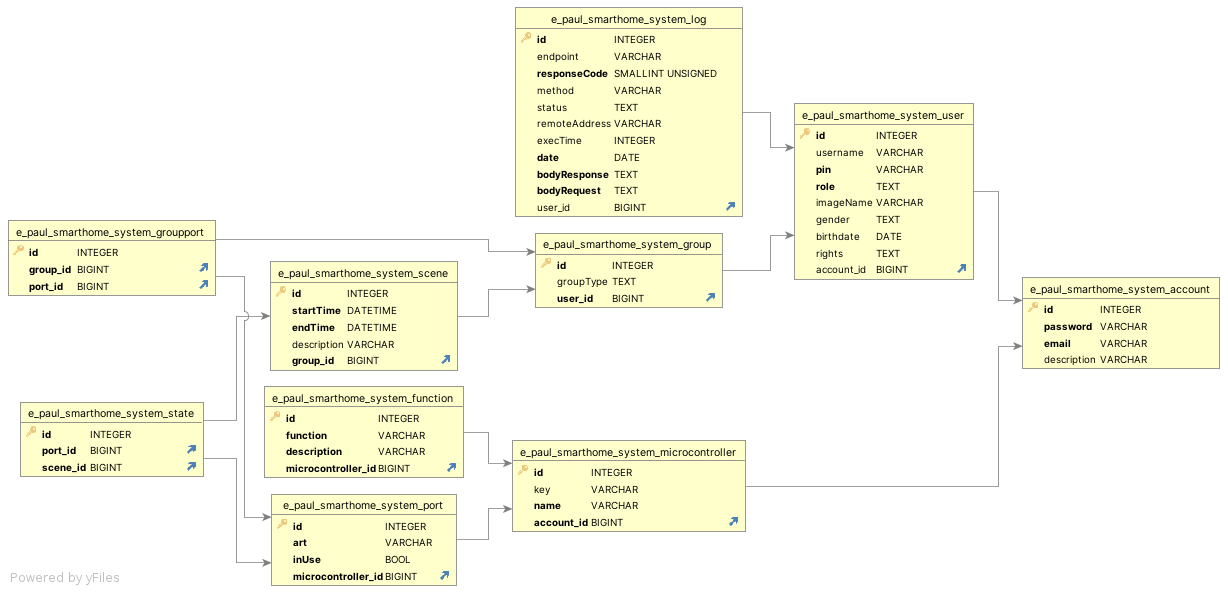
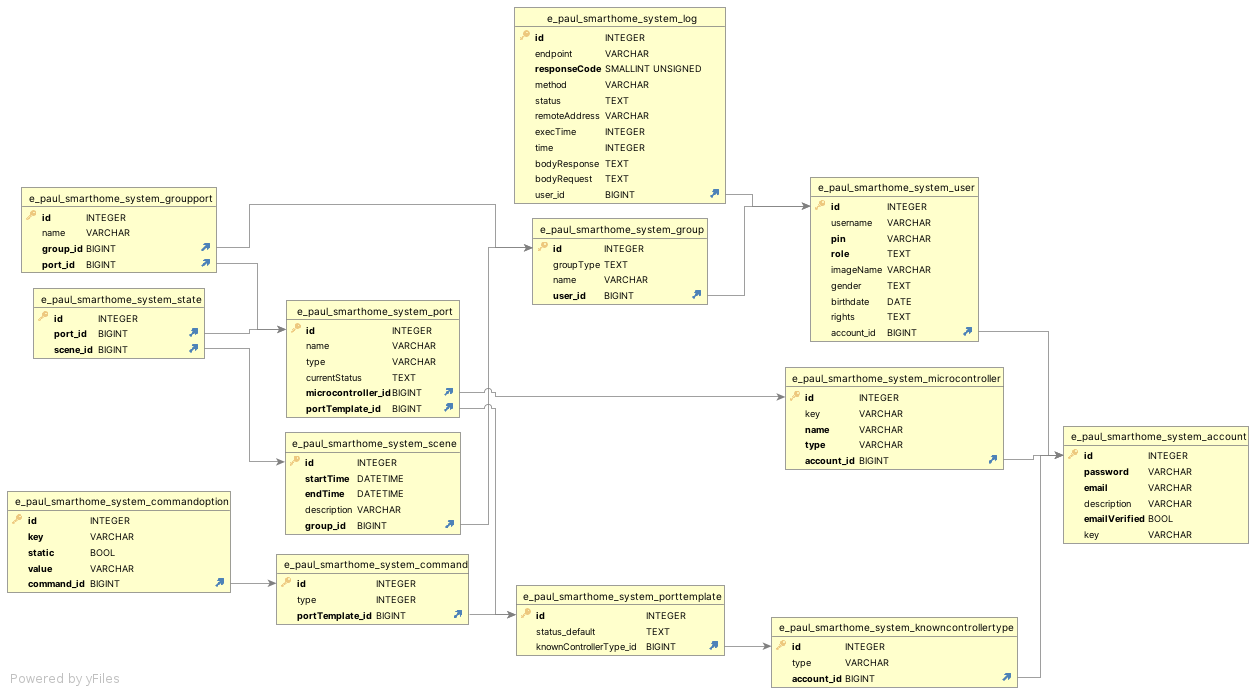
- added new ERM - added missing Foreign Key in portTemplate

diff --git a/backend/app/e_paul_smarthome_system/model/portTemplate.py b/backend/app/e_paul_smarthome_system/model/portTemplate.py
@@ -2,3 +2,4 @@ from django.db import models
 
 class PortTemplate(models.Model):
     status_default = models.JSONField(null = True, blank = True)
+    knownControllerType = models.ForeignKey("e_paul_smarthome_system.knownControllerType", null = True, blank = True, related_name="portTemplate" ,verbose_name=("Microcontroller"), on_delete=models.CASCADE)

diff --git a/backend/app/e_paul_smarthome_system/model/microcontroller.py b/backend/app/e_paul_smarthome_system/model/microcontroller.py
@@ -5,4 +5,3 @@ class Microcontroller(models.Model):
     name = models.CharField(max_length=20, default = "ESP8266")
     type = models.CharField(max_length=32)
     account = models.ForeignKey("e_paul_smarthome_system.Account", related_name="microcontroller" ,verbose_name=("Account"), on_delete=models.CASCADE)
-    #filter = models.ForeignKey()
